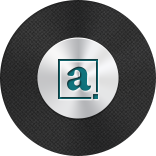
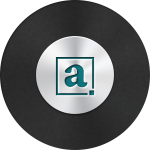
Visual design for progress meter. textured bordered div is now part of a shotgun loader.

diff --git a/dist/shotgun.css b/dist/shotgun.css
@@ -4,24 +4,82 @@
   right: 0;
   bottom: 0;
   left: 0;
-  width: 200px;
-  height: 200px;
-  margin: auto;
-  background: url(../images/shotgun.png) no-repeat center center; }
-  #shotgun svg .progress-meter {
+  width: 300px;
+  height: 300px;
+  margin: auto; }
+  #shotgun svg {
+    width: 300px;
+    height: 300px;
     display: block;
-    width: 100%;
-    height: 100%; }
-  #shotgun svg .background {
-    fill: #000; }
-  #shotgun svg .foreground {
-    fill: #30878F; }
-  #shotgun svg text {
-    font-family: "Helvetica Neue", Helvetica, Arial, sans-serif;
-    fill: rgba(51, 51, 51, 0.85);
-    text-shadow: -1px 2px 1px #faf9fa, 0 0 0 #231f20, -1px 2px 1px #faf9fa; }
-  #shotgun svg .percentage {
-    font-size: 22px;
-    font-weight: bold; }
-  #shotgun svg .status {
-    font-size: 14px; }
+    margin: 0 auto;
+    background: url(../images/shotgun.png) no-repeat center center; }
+    #shotgun svg .progress-meter {
+      display: block;
+      width: 100%;
+      height: 100%; }
+    #shotgun svg .background {
+      fill: rgba(0, 0, 0, 0.25);
+      box-shadow: inset 0 4px 6px rgba(0, 0, 0, 0.5), inset 0 -3px 3px rgba(0, 0, 0, 0.1); }
+    #shotgun svg .foreground {
+      fill: #30878F; }
+    #shotgun svg text {
+      font-family: "Helvetica Neue", Helvetica, Arial, sans-serif;
+      fill: rgba(51, 51, 51, 0.85);
+      text-shadow: -1px 2px 1px #faf9fa, 0 0 0 #231f20, -1px 2px 1px #faf9fa; }
+    #shotgun svg .percentage {
+      font-size: 64px;
+      font-weight: 900; }
+    #shotgun svg .status {
+      font-size: 32px; }
+
+#shotgun-wrapper {
+  position: relative;
+  background-image: url(../images/bg_texture.png);
+  text-shadow: 1px 1px 0 rgba(255, 255, 255, 0.8);
+  width: 350px;
+  margin: 100px auto 100px auto;
+  overflow: hidden;
+  padding: 18px 0 20px 0;
+  background-color: white !important;
+  box-shadow: 0 0 10px rgba(0, 0, 0, 0.3); }
+  #shotgun-wrapper:before, #shotgun-wrapper:after {
+    content: "";
+    display: block;
+    position: absolute;
+    height: 5px;
+    background: white;
+    border: 1px solid #eaeaea;
+    border-left: none;
+    border-right: none;
+    z-index: 10;
+    left: 14px;
+    right: 14px; }
+  #shotgun-wrapper:before {
+    top: 8px; }
+  #shotgun-wrapper:after {
+    bottom: 10px; }
+
+#shotgun-content {
+  -webkit-box-sizing: border-box;
+  -moz-box-sizing: border-box;
+  box-sizing: border-box;
+  width: 100%;
+  min-height: 563px;
+  background-color: white;
+  background-image: url(../images/bg_texture.png); }
+  #shotgun-content:before, #shotgun-content:after {
+    content: "";
+    display: block;
+    position: absolute;
+    width: 5px;
+    background: white;
+    border: 1px solid #eaeaea;
+    z-index: 9; }
+  #shotgun-content:before {
+    left: 10px;
+    top: 8px;
+    bottom: 10px; }
+  #shotgun-content:after {
+    right: 10px;
+    top: 8px;
+    bottom: 10px; }

diff --git a/src/scss/shotgun.scss b/src/scss/shotgun.scss
@@ -4,6 +4,8 @@
 // 
 // Styleguide 1.1
 
+$shotgunWidth: 300px;
+$shotgunHeight: 300px;
 
 #shotgun {
   position: absolute;
@@ -11,12 +13,17 @@
   right: 0;
   bottom: 0;
   left: 0;
-  width: 200px;
-  height: 200px;
+  width: $shotgunWidth;
+  height: $shotgunHeight;
   margin: auto;
-  background: url(../images/shotgun.png) no-repeat center center;
 
   svg {
+    width: $shotgunWidth;
+    height: $shotgunHeight;
+    display: block;
+    margin: 0 auto;
+    background: url(../images/shotgun.png) no-repeat center center;
+
     .progress-meter {
       display: block;
       width: 100%;
@@ -24,7 +31,8 @@
     }
     
     .background {
-      fill: #000;
+      fill: rgba(0, 0, 0, 0.25);
+      box-shadow: inset 0 4px 6px rgba(0, 0, 0, 0.5), inset 0 -3px 3px rgba(0, 0, 0, 0.1);
     }
     
     .foreground {
@@ -38,13 +46,79 @@
     }
 
     .percentage {
-      font-size: 22px;
-      font-weight: bold;
+      font-size: 64px;
+      font-weight: 900;
       
     }
-    
+
     .status {
-      font-size: 14px;
+      font-size: 32px;
     }
+  }
+}
+
+#shotgun-wrapper {
+  position: relative;
+  background-image: url(../images/bg_texture.png);
+  text-shadow: 1px 1px 0 rgba(255, 255, 255, 0.8);
+  width: 350px;
+  margin: 100px auto 100px auto;
+  overflow: hidden;
+  padding: 18px 0 20px 0;
+  background-color: white !important;
+  box-shadow: 0 0 10px rgba(0, 0, 0, 0.3);
+
+  &:before, &:after {
+    content: "";
+    display: block;
+    position: absolute;
+    height: 5px;
+    background: white;
+    border: 1px solid #eaeaea;
+    border-left: none;
+    border-right: none;
+    z-index: 10;
+    left: 14px;
+    right: 14px;
+  }
+
+  &:before {
+    top: 8px;
+  }
+
+  &:after {
+    bottom: 10px;
+  }
+}
+
+#shotgun-content {
+  -webkit-box-sizing: border-box;
+  -moz-box-sizing: border-box;
+  box-sizing: border-box;
+  width: 100%;
+  min-height: 563px;
+  background-color: white;
+  background-image: url(../images/bg_texture.png);
+
+  &:before, &:after {
+    content: "";
+    display: block;
+    position: absolute;
+    width: 5px;
+    background: white;
+    border: 1px solid #eaeaea;
+    z-index: 9;
+  }
+
+  &:before {
+    left: 10px;
+    top: 8px;
+    bottom: 10px;
+  }
+
+  &:after {
+    right: 10px;
+    top: 8px;
+    bottom: 10px;
   }
 }

diff --git a/examples/public/css/styleguide.css b/examples/public/css/styleguide.css
@@ -8,107 +8,3 @@ body {
   background-repeat: repeat-x;
   filter: progid:DXImageTransform.Microsoft.gradient(startColorstr='#FF00455B', endColorstr='#FF30878F', GradientType=0);
 }
-
-
-
-.textured {
-  background-image: url(../images/bg_texture.png);
-  text-shadow: 1px 1px 0 rgba(255, 255, 255, 0.8);
-}
-
-.textured.well {
-  background-color: #e5e5e5;
-}
-
-
-.textured-with-border {
-  position: relative;
-  background-image: url(../images/bg_texture.png);
-}
-
-.textured-with-border:before, .textured-with-border:after {
-  content: "";
-  display: block;
-  position: absolute;
-  height: 5px;
-  background: white;
-  border: 1px solid #eaeaea;
-  border-left: none;
-  border-right: none;
-  z-index: 10;
-  left: 14px;
-  right: 14px;
-}
-
-.textured-with-border:before {
-  top: 8px;
-}
-
-.textured-with-border:after {
-  bottom: 10px;
-}
-
-.textured-with-border .main-content {
-  position: relative;
-  float: left;
-  margin: 0 auto;
-  padding: 7px 30px;
-  background-image: url(../images/bg_texture.png);
-}
-
-.textured-with-border .main-content:before, .textured-with-border .main-content:after {
-  content: "";
-  display: block;
-  position: absolute;
-  width: 5px;
-  background: white;
-  border: 1px solid #eaeaea;
-  z-index: 9;
-}
-
-.textured-with-border .main-content:before {
-  left: 10px;
-  top: -10px;
-  bottom: -10px;
-}
-
-.textured-with-border .main-content:after {
-  right: 10px;
-  top: -10px;
-  bottom: -10px;
-}
-
-
-.main-content {
-  -webkit-box-sizing: border-box;
-  -moz-box-sizing: border-box;
-  box-sizing: border-box;
-  width: 100%;
-  min-height: 300px;
-  background-color: white;
-}
-
-
-.page-wrapper {
-  width: 1160px;
-  margin: 2px auto 0 auto;
-  overflow: hidden;
-  padding: 18px 0 20px 0;
-  background-color: white !important;
-  box-shadow: 0 0 10px rgba(0, 0, 0, 0.3);
-}
-
-.page-wrapper.narrow {
-  width: 640px;
-  margin-top: 100px;
-  margin-bottom: 100px;
-}
-
-.page-wrapper.narrow .main-content {
-  -webkit-box-sizing: border-box;
-  -moz-box-sizing: border-box;
-  box-sizing: border-box;
-  width: 100%;
-  padding-left: 90px;
-  padding-right: 90px;
-}
